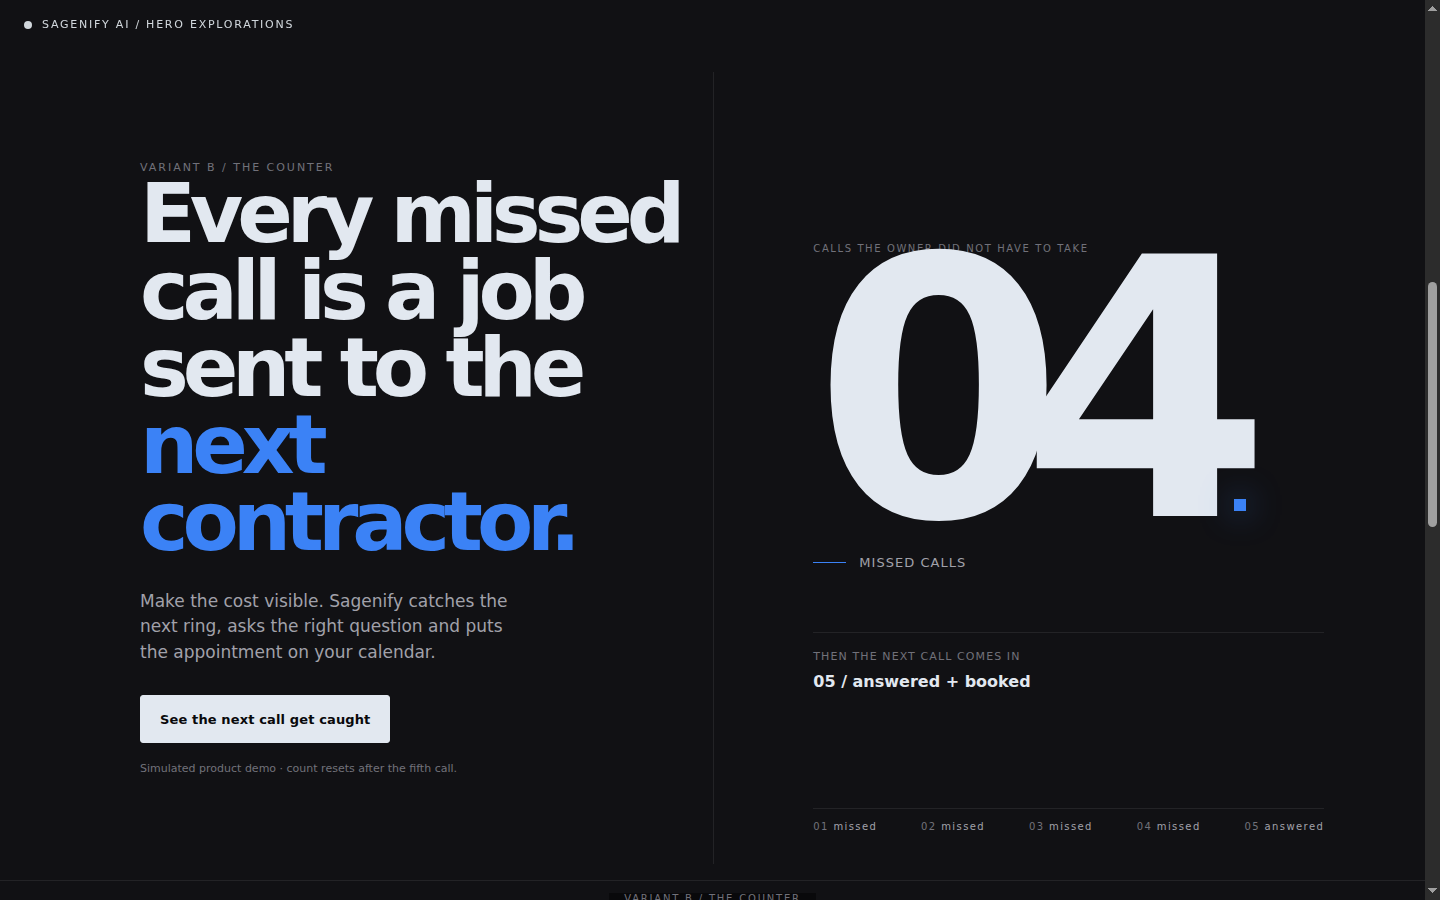
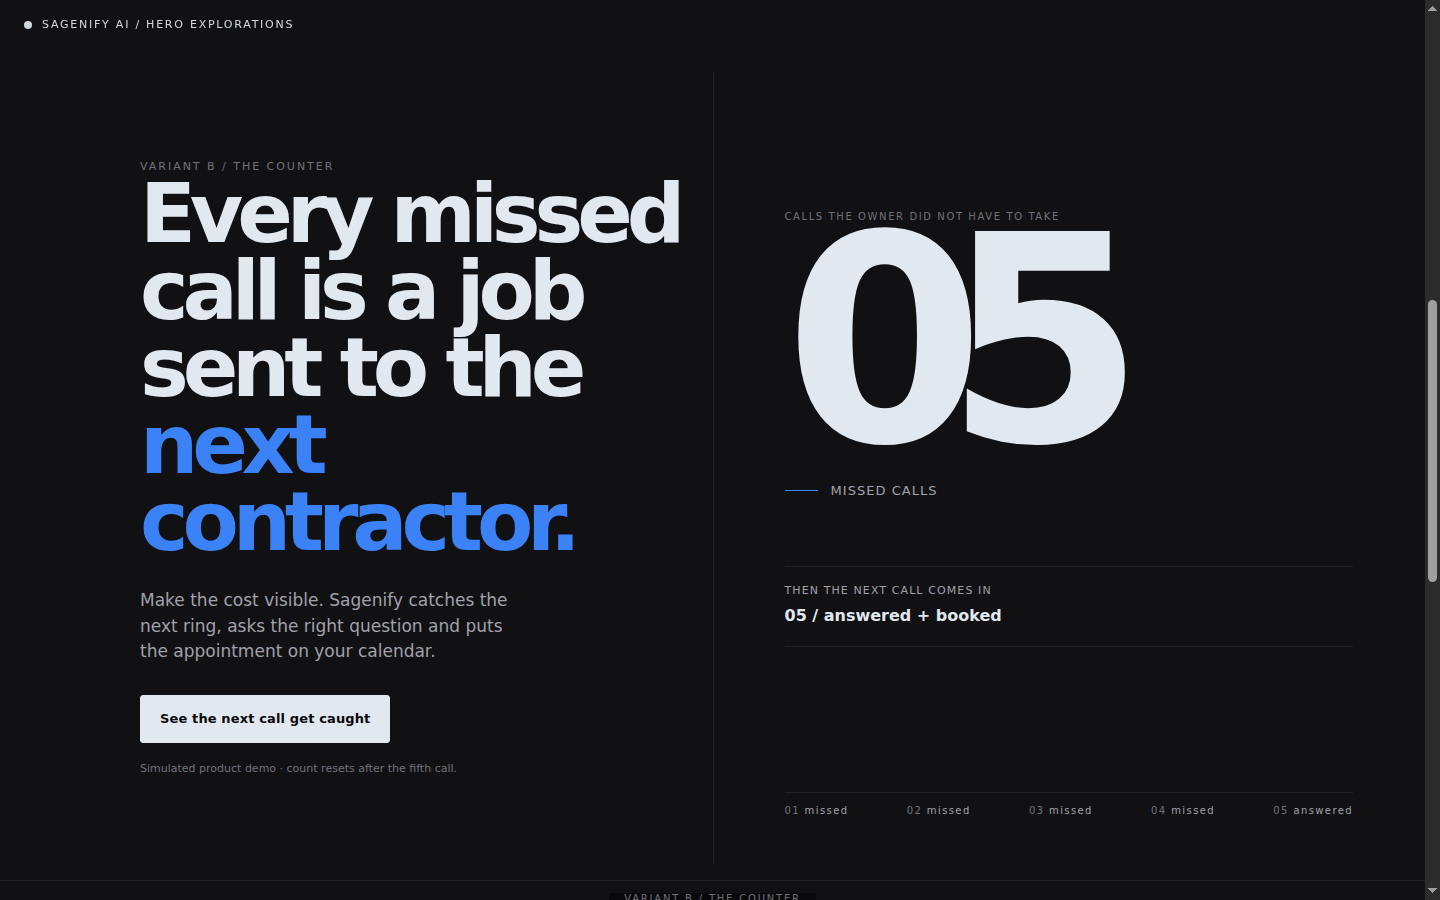
fix: polish v4 hero compositions

diff --git a/docs/design/hero-variants.html b/docs/design/hero-variants.html
@@ -47,51 +47,55 @@
       transition: background .2s ease, color .2s ease;
     }
     .primary-cta:hover { background: var(--v4-bg); color: var(--v4-text); }
-    .demo-note { margin: 18px 0 0; color: var(--v4-muted); font-size: 11px; line-height: 1.45; }
+    .demo-note { margin: 18px 0 0; color: var(--v4-text-secondary); font-size: 11px; line-height: 1.45; }
 
     /* Variant A — one call, one job. */
     .variant-a { background: var(--v4-bg); }
-    .a-grid { display: grid; grid-template-columns: minmax(280px, .83fr) minmax(500px, 1.17fr); gap: clamp(45px, 8vw, 120px); align-items: center; }
-    .a-copy h1 { max-width: 560px; }
-    .a-copy h1 em { color: var(--v4-purple); }
+    .a-grid { display: grid; grid-template-columns: minmax(0, .96fr) minmax(0, 1.04fr); gap: clamp(28px, 4vw, 52px); align-items: center; }
+    .a-copy h1 { max-width: none; font-size: clamp(44px, 4.6vw, 68px); }
+    .a-copy h1 em { display:block; color: var(--v4-purple); }
     .a-statement { display:flex; align-items:center; gap:10px; margin: 0 0 24px; color: var(--v4-text-secondary); font-size: 12px; }
     .a-statement i { width: 7px; height: 7px; border-radius: 50%; background: var(--v4-purple); box-shadow: 0 0 18px rgba(139,92,246,.65); }
-    .call-shell { min-height: 604px; position: relative; overflow: hidden; padding: 23px; border: 1px solid var(--v4-line-strong); background: var(--v4-surface); }
-    .call-shell::before { content:""; position:absolute; inset: 0; background: linear-gradient(90deg, transparent 0 49.8%, var(--v4-line) 50%, transparent 50.2%); opacity:.5; pointer-events:none; }
+    .call-shell { min-height: 574px; position: relative; overflow: hidden; padding: 23px; border: 1px solid var(--v4-line-strong); background: var(--v4-surface); }
+    .call-shell::before { content:""; position:absolute; inset: 0; background: linear-gradient(90deg, transparent 0 36%, var(--v4-line) 36.1%, transparent 36.2%); opacity:.5; pointer-events:none; }
     .call-top { position:relative; z-index:1; display:flex; justify-content:space-between; align-items:center; padding-bottom:17px; border-bottom: 1px solid var(--v4-line); color:var(--v4-muted); font-size:10px; letter-spacing:.14em; text-transform:uppercase; }
     .call-top strong { color:var(--v4-text-secondary); font-weight:600; }
     .live-dot { display:inline-block; width:6px; height:6px; margin-right:7px; border-radius:50%; background:var(--v4-purple); box-shadow:0 0 12px rgba(139,92,246,.9); }
-    .call-stage { position:relative; z-index:1; min-height: 535px; display:grid; grid-template-rows:auto 1fr auto; padding: 27px 4px 3px; }
+    .call-stage { position:relative; z-index:1; min-height: 505px; display:grid; grid-template-rows:auto 1fr auto; padding: 27px 4px 3px; }
     .call-meta { display:flex; justify-content:space-between; gap:15px; align-items:flex-start; }
-    .call-status { color:var(--v4-purple); font-size:10px; font-weight:700; letter-spacing:.16em; text-transform:uppercase; }
+    .call-status { display:grid; color:var(--v4-purple); font-size:10px; font-weight:700; letter-spacing:.16em; text-transform:uppercase; }
+    .call-status .ringing-copy, .call-status .answered-copy { grid-area:1 / 1; }
     .call-time { color:var(--v4-muted); font-size:11px; font-variant-numeric:tabular-nums; }
-    .call-body { display:grid; grid-template-columns: 1fr 1fr; gap: 28px; align-items:center; }
-    .caller { position:relative; }
+    .call-body { display:grid; grid-template-columns: minmax(0, .84fr) minmax(0, 1.16fr); gap: 28px; align-items:stretch; padding-top: 20px; }
+    .caller { position:relative; display:flex; flex-direction:column; justify-content:center; align-items:flex-start; padding-right: 18px; }
     .caller h2 { margin:0 0 8px; font-size: clamp(24px, 3vw, 42px); line-height: .98; letter-spacing:-.06em; }
-    .caller p { max-width: 210px; margin:0; color:var(--v4-muted); font-size:12px; line-height:1.45; }
-    .phone-ring { width: 114px; height: 114px; margin: 0 0 30px; position:relative; display:grid; place-items:center; border:1px solid rgba(139,92,246,.5); border-radius:50%; color:var(--v4-purple); }
+    .caller p { max-width: 210px; margin:0; color:var(--v4-text-secondary); font-size:12px; line-height:1.45; }
+    .caller-copies { display:grid; width:100%; }
+    .caller-copies > div { grid-area:1 / 1; }
+    .caller-rings { display:grid; margin: 0 0 30px; }
+    .caller-rings > div { grid-area:1 / 1; margin:0; }
+    .phone-ring { width: 114px; height: 114px; position:relative; display:grid; place-items:center; border:1px solid rgba(139,92,246,.5); border-radius:50%; color:var(--v4-purple); }
     .phone-ring::before, .phone-ring::after { content:""; position:absolute; inset:-13px; border:1px solid rgba(139,92,246,.25); border-radius:50%; animation: ring 2.2s ease-out infinite; }
     .phone-ring::after { animation-delay:1.1s; }
     .phone-icon { width:30px; height:30px; fill:none; stroke:currentColor; stroke-width:1.7; stroke-linecap:round; stroke-linejoin:round; }
     .answered-ring { display:none; width:114px; height:114px; margin: 0 0 30px; position:relative; align-items:center; justify-content:center; border:1px solid rgba(139,92,246,.7); border-radius:50%; color:var(--v4-purple); }
     .answered-ring::after { content:""; position:absolute; inset:13px; border:1px solid rgba(139,92,246,.35); border-radius:50%; }
     .answered-ring .phone-icon { position:relative; z-index:1; }
-    .caller > .ringing-copy, .caller > .answered-copy { position: absolute; left: 0; top: 174px; }
     .call-status .ringing-copy, .call-status .answered-copy { position: static; }
     .answered-copy { opacity:0; }
     .wave-panel { align-self:end; padding: 17px 0 0; border-top:1px solid var(--v4-line); }
-    .wave-label { display:flex; justify-content:space-between; margin-bottom:10px; color:var(--v4-muted); font-size:10px; letter-spacing:.12em; text-transform:uppercase; }
+    .wave-label { display:flex; justify-content:space-between; margin-bottom:14px; color:var(--v4-text-secondary); font-size:10px; letter-spacing:.12em; text-transform:uppercase; }
     .waveform { height: 52px; display:flex; align-items:center; gap:4px; }
     .waveform i { display:block; width:4px; height: 8px; border-radius:4px; background: var(--v4-purple); opacity:.2; }
     .waveform i:nth-child(2n) { height: 22px; } .waveform i:nth-child(3n) { height: 35px; } .waveform i:nth-child(5n) { height: 46px; }
     .transcript { min-height: 140px; padding: 15px 0 0; }
-    .transcript p { opacity:0; transform:translateY(8px); margin: 0 0 10px; color:var(--v4-text-secondary); font-size:12px; line-height:1.45; }
-    .transcript p b { display:inline-block; width: 53px; color:var(--v4-muted); font-size:9px; font-weight:500; letter-spacing:.12em; text-transform:uppercase; }
+    .transcript p { opacity:0; transform:translateY(8px); margin: 0 0 12px; color:var(--v4-text-secondary); font-size:12px; line-height:1.45; }
+    .transcript p b { display:block; width:auto; margin-bottom:4px; color:var(--v4-text-secondary); font-size:9px; font-weight:600; letter-spacing:.12em; text-transform:uppercase; }
     .job-ticket { opacity:0; transform:translateX(20px); margin-top: 12px; padding: 15px 16px; border-left: 2px solid var(--v4-purple); background: var(--v4-surface-raised); }
     .job-ticket .ticket-top { display:flex; justify-content:space-between; gap:15px; margin-bottom:9px; color:var(--v4-purple); font-size:10px; font-weight:700; letter-spacing:.13em; text-transform:uppercase; }
     .job-ticket strong { display:block; color:var(--v4-text); font-size:14px; font-weight:650; }
-    .job-ticket small { display:block; margin-top:4px; color:var(--v4-muted); font-size:11px; }
-    .a-next { margin-top: 22px; color:var(--v4-muted); font-size: 11px; }
+    .job-ticket small { display:block; margin-top:4px; color:var(--v4-text-secondary); font-size:11px; }
+    .a-next { margin-top: 22px; color:var(--v4-text-secondary); font-size: 11px; }
     .a-next b { color:var(--v4-text-secondary); font-weight:500; }
     @keyframes ring { 0% { opacity:0; transform:scale(.7); } 15% { opacity:1; } 70%,100% { opacity:0; transform:scale(1.18); } }
     @keyframes ring-hide { 0%, 21% { opacity:1; } 26%,100% { opacity:0; } }
@@ -106,9 +110,9 @@
     .call-shell:not(.is-paused) .answered-copy { animation: answer-in 12s linear infinite; }
     .call-shell:not(.is-paused) .answered-ring { display:flex; animation: answer-in 12s linear infinite; }
     .call-shell:not(.is-paused) .waveform i { animation: pulse 1.1s ease-in-out infinite alternate; }
-    .call-shell:not(.is-paused) .transcript p:nth-child(1) { animation: line-in-one 12s linear infinite; }
-    .call-shell:not(.is-paused) .transcript p:nth-child(2) { animation: line-in-two 12s linear infinite; }
-    .call-shell:not(.is-paused) .transcript p:nth-child(3) { animation: line-in-three 12s linear infinite; }
+    .call-shell:not(.is-paused) .transcript p:nth-of-type(1) { animation: line-in-one 12s linear infinite; }
+    .call-shell:not(.is-paused) .transcript p:nth-of-type(2) { animation: line-in-two 12s linear infinite; }
+    .call-shell:not(.is-paused) .transcript p:nth-of-type(3) { animation: line-in-three 12s linear infinite; }
     .call-shell:not(.is-paused) .job-ticket { animation: ticket-in 12s linear infinite; }
     @keyframes pulse { from { transform:scaleY(.4); opacity:.35; } to { transform:scaleY(1); opacity:1; } }
     .call-shell:not(.is-paused) .waveform i:nth-child(2) { animation-delay:.13s; } .call-shell:not(.is-paused) .waveform i:nth-child(3) { animation-delay:.22s; } .call-shell:not(.is-paused) .waveform i:nth-child(4) { animation-delay:.31s; } .call-shell:not(.is-paused) .waveform i:nth-child(5) { animation-delay:.38s; }
@@ -123,15 +127,14 @@
     .b-copy h1 { max-width: 610px; margin-bottom: 28px; }
     .b-copy h1 em { color:var(--v4-blue); }
     .b-copy .lede { max-width: 390px; }
-    .counter-stage { min-height:calc(100svh - 108px); position:relative; display:flex; flex-direction:column; justify-content:center; padding: 0 clamp(32px, 7vw, 120px); }
+    .counter-stage { min-height:calc(100svh - 108px); position:relative; display:flex; flex-direction:column; justify-content:center; padding: 0 clamp(32px, 5vw, 90px) 78px; }
     .counter-small { margin-bottom: 8px; color:var(--v4-muted); font-size:10px; letter-spacing:.16em; text-transform:uppercase; }
-    .counter-number { position:relative; width:max-content; color:var(--v4-text); font-size:clamp(160px, 25vw, 360px); line-height:.72; letter-spacing:-.12em; font-weight:650; font-variant-numeric:tabular-nums; }
-    .counter-number::after { content:""; position:absolute; right:-18px; bottom:10px; width:12px; height:12px; background:var(--v4-blue); box-shadow:0 0 32px rgba(59,130,246,.7); }
-    .counter-label { display:flex; align-items:center; gap:13px; margin-top: 34px; color:var(--v4-text-secondary); font-size:13px; letter-spacing:.08em; text-transform:uppercase; }
+    .counter-number { position:relative; width:max-content; max-width:100%; color:var(--v4-text); font-size:clamp(150px, 20vw, 300px); line-height:.78; letter-spacing:-.14em; font-weight:650; font-variant-numeric:tabular-nums; }
+    .counter-label { display:flex; align-items:center; gap:13px; margin-top: 28px; color:var(--v4-text-secondary); font-size:13px; letter-spacing:.08em; text-transform:uppercase; }
     .counter-label i { width:33px; border-top:1px solid var(--v4-blue); }
-    .catch-line { margin-top: 62px; padding-top: 16px; border-top:1px solid var(--v4-line); color:var(--v4-muted); font-size:11px; line-height:1.5; text-transform:uppercase; letter-spacing:.1em; }
+    .catch-line { margin-top: 68px; padding: 16px 0 18px; border-top:1px solid var(--v4-line); border-bottom:1px solid var(--v4-line); color:var(--v4-text-secondary); font-size:11px; line-height:1.5; text-transform:uppercase; letter-spacing:.1em; }
     .catch-line strong { display:block; margin-top:5px; color:var(--v4-text); font-size:16px; letter-spacing:0; text-transform:none; }
-    .number-rail { position:absolute; left:clamp(32px, 7vw, 120px); right:clamp(32px, 7vw, 120px); bottom:32px; display:flex; justify-content:space-between; border-top:1px solid var(--v4-line); padding-top:12px; color:var(--v4-muted); font-size:10px; letter-spacing:.14em; }
+    .number-rail { position:absolute; left:clamp(32px, 5vw, 90px); right:clamp(32px, 5vw, 90px); bottom:48px; display:flex; justify-content:space-between; border-top:1px solid var(--v4-line); padding-top:12px; color:var(--v4-muted); font-size:10px; letter-spacing:.14em; }
     .number-rail b { color:var(--v4-text-secondary); font-weight:500; }
     @keyframes count { 0%, 17% { opacity:1; } 18%, 20% { opacity:.1; } 21%, 42% { opacity:1; } 43%, 45% { opacity:.1; } 46%, 67% { opacity:1; } 68%, 70% { opacity:.1; } 71%, 100% { opacity:1; } }
     .counter-number { animation:count 8s steps(1,end) infinite; }
@@ -143,15 +146,15 @@
     .c-head h1 { max-width: 850px; margin-bottom:20px; font-size:clamp(44px, 5.3vw, 72px); }
     .c-head h1 em { color:var(--v4-purple); }
     .c-head .lede { max-width: 470px; margin-bottom: 22px; }
-    .c-split { min-height: calc(100svh - 306px); display:grid; grid-template-columns:1fr 1fr; border-top:1px solid var(--v4-line); border-bottom:1px solid var(--v4-line); }
-    .c-half { position:relative; min-height: 440px; padding: clamp(28px, 5vw, 70px); overflow:hidden; }
+    .c-split { height:430px; min-height:430px; display:grid; grid-template-columns:1fr 1fr; border-top:1px solid var(--v4-line); border-bottom:1px solid var(--v4-line); }
+    .c-half { position:relative; min-height: 0; padding: clamp(28px, 4vw, 54px); overflow:hidden; }
     .c-left { background: #09090B; border-right:1px solid var(--v4-line); }
     .c-right { background:var(--v4-surface-raised); }
     .c-half::after { content:""; position:absolute; left:0; right:0; top:48%; border-top:1px solid var(--v4-line); opacity:.8; }
     .c-label { position:relative; z-index:1; display:flex; justify-content:space-between; gap:14px; color:var(--v4-muted); font-size:10px; letter-spacing:.15em; text-transform:uppercase; }
     .c-label strong { color:var(--v4-text-secondary); font-weight:600; }
-    .phone-scene { position:absolute; z-index:1; inset: 24% 0 0; display:flex; flex-direction:column; align-items:center; justify-content:center; text-align:center; }
-    .scene-phone { width:100px; height:160px; position:relative; border:2px solid var(--v4-muted); border-radius:18px; color:var(--v4-muted); }
+    .phone-scene { position:absolute; z-index:1; inset: 14% 0 6%; display:flex; flex-direction:column; align-items:center; justify-content:center; text-align:center; }
+    .scene-phone { width:100px; height:160px; position:relative; border:2px dashed var(--v4-muted); border-radius:18px; color:var(--v4-muted); opacity:.72; }
     .scene-phone::before { content:""; position:absolute; top:10px; left:50%; width:26px; height:3px; transform:translateX(-50%); border-radius:4px; background:currentColor; }
     .scene-phone::after { content:""; position:absolute; bottom:10px; left:50%; width:25px; height:4px; transform:translateX(-50%); border-radius:4px; background:currentColor; }
     .scene-phone svg { position:absolute; width:33px; height:33px; left:50%; top:50%; transform:translate(-50%,-50%); fill:none; stroke:currentColor; stroke-width:1.5; stroke-linecap:round; stroke-linejoin:round; }
@@ -160,14 +163,19 @@
     .ring-lines::before { left:-16px; transform:rotate(-24deg); } .ring-lines::after { right:-16px; transform:rotate(24deg); }
     @keyframes shake { 0%,100% { transform:rotate(0); } 25% { transform:rotate(-2deg); } 75% { transform:rotate(2deg); } }
     .scene-title { margin:23px 0 7px; color:var(--v4-text); font-size:22px; letter-spacing:-.04em; }
-    .scene-copy { max-width:230px; margin:0; color:var(--v4-muted); font-size:12px; line-height:1.45; }
-    .c-right .scene-phone { border-color:var(--v4-purple); color:var(--v4-purple); box-shadow:0 0 0 14px rgba(139,92,246,.06), 0 0 44px rgba(139,92,246,.12); }
+    .scene-copy { max-width:230px; margin:0; color:var(--v4-text-secondary); font-size:12px; line-height:1.45; }
+    .c-right .scene-phone { border:3px solid var(--v4-purple); color:var(--v4-purple); opacity:1; background:rgba(139,92,246,.035); box-shadow:0 0 0 14px rgba(139,92,246,.06), 0 0 44px rgba(139,92,246,.12); }
     .c-right .ring-lines { display:none; }
+    .c-left .ring-lines { animation:none; opacity:.48; border-style:dashed; }
     .c-right .scene-title { color:var(--v4-text); }
     .booked-line { display:flex; align-items:center; gap:8px; margin-top:16px; color:var(--v4-purple); font-size:10px; font-weight:700; letter-spacing:.13em; text-transform:uppercase; }
     .booked-line i { width:7px; height:7px; border:1px solid var(--v4-purple); border-radius:50%; }
-    .c-side-note { position:absolute; z-index:2; right:clamp(28px, 5vw, 70px); bottom:24px; max-width:190px; color:var(--v4-muted); font-size:10px; line-height:1.45; text-align:right; }
+    .c-side-note { position:absolute; z-index:2; right:clamp(28px, 5vw, 70px); bottom:38px; max-width:190px; color:var(--v4-text-secondary); font-size:10px; line-height:1.45; text-align:right; }
 
+    @media (max-width: 1100px) and (min-width: 851px) {
+      .a-copy h1 { font-size: 42px; }
+      .a-copy h1 em { max-width: 340px; }
+    }
     @media (max-width: 850px) {
       .site-mark { top:14px; left:18px; font-size:9px; }
       .variant-inner, .c-head { width:calc(100% - 40px); }
@@ -178,6 +186,7 @@
       .a-grid { grid-template-columns:1fr; gap: 30px; align-items:start; }
       .a-copy { padding-top: 10px; }
       .a-copy h1 { font-size: clamp(42px, 11.8vw, 58px); }
+      .a-copy h1 em { display:inline; }
       .a-copy .lede { margin-bottom: 21px; font-size: 14px; line-height: 1.38; }
       .a-copy .a-next { display:none; }
       .a-statement { margin-bottom:16px; }
@@ -195,7 +204,8 @@
       .call-body { gap:17px; }
       .caller h2 { font-size:30px; }
       .caller > .ringing-copy, .caller > .answered-copy { top: 135px; }
-      .phone-ring, .answered-ring { width:92px; height:92px; margin-bottom:21px; }
+      .caller-rings { margin-bottom:21px; }
+      .phone-ring, .answered-ring { width:92px; height:92px; }
       .phone-icon { width:26px; height:26px; }
       .a-next { margin-top:13px; }
       .b-inner, .c-inner { padding-top:65px; padding-bottom:53px; }
@@ -237,11 +247,11 @@
       .transcript p { font-size:11px; }
       .transcript p b { width:45px; font-size:8px; }
       .b-copy { width:calc(100% - 32px); }
-      .b-copy h1 { font-size:46px; }
+      .b-copy h1 { font-size:42px; }
       .counter-stage { padding-left:16px; padding-right:16px; }
       .number-rail { left:16px; right:16px; font-size:9px; }
       .c-head { width:calc(100% - 32px); }
-      .c-head h1 { font-size:46px; }
+      .c-head h1 { font-size:38px; }
       .c-half { min-height:285px; }
     }
     @media (prefers-reduced-motion: reduce) {
@@ -280,12 +290,10 @@
             <div class="call-meta"><span class="call-status"><span class="ringing-copy">Incoming call</span><span class="answered-copy">Answered by Sagenify</span></span><span class="call-time">09:42 AM · 02:18</span></div>
             <div class="call-body">
               <div class="caller">
-                <div class="phone-ring">
+                <div class="caller-rings"><div class="phone-ring">
                   <svg class="phone-icon" viewBox="0 0 24 24" aria-hidden="true"><path d="M6.6 3.8 9 3l2.1 4.9-2.3 1.5a13.2 13.2 0 0 0 5.8 5.8l1.5-2.3L21 15l-.8 2.4a2.2 2.2 0 0 1-2.5 1.4C10 17.3 6.7 14 5.2 6.3a2.2 2.2 0 0 1 1.4-2.5Z"/></svg>
-                </div>
-                <div class="answered-ring"><svg class="phone-icon" viewBox="0 0 24 24" aria-hidden="true"><path d="M6.6 3.8 9 3l2.1 4.9-2.3 1.5a13.2 13.2 0 0 0 5.8 5.8l1.5-2.3L21 15l-.8 2.4a2.2 2.2 0 0 1-2.5 1.4C10 17.3 6.7 14 5.2 6.3a2.2 2.2 0 0 1 1.4-2.5Z"/></svg></div>
-                <div class="ringing-copy"><h2>Maple Street<br>HVAC</h2><p>(555) 014-0149 · New customer</p></div>
-                <div class="answered-copy"><h2>Maple Street<br>HVAC</h2><p>Call connected · lead captured</p></div>
+                </div><div class="answered-ring"><svg class="phone-icon" viewBox="0 0 24 24" aria-hidden="true"><path d="M6.6 3.8 9 3l2.1 4.9-2.3 1.5a13.2 13.2 0 0 0 5.8 5.8l1.5-2.3L21 15l-.8 2.4a2.2 2.2 0 0 1-2.5 1.4c-7.7-1.5-11-4.8-12.5-12.5a2.2 2.2 0 0 1 1.4-2.5Z"/></svg></div></div>
+                <div class="caller-copies"><div class="ringing-copy"><h2>Maple Street<br>HVAC</h2><p>(555) 014-0149 · New customer</p></div><div class="answered-copy"><h2>Maple Street<br>HVAC</h2><p>Call connected · lead captured</p></div></div>
               </div>
               <div class="transcript" aria-live="polite">
                 <div class="wave-panel"><div class="wave-label"><span>AI receptionist</span><span>Listening</span></div><div class="waveform" aria-hidden="true"><i></i><i></i><i></i><i></i><i></i><i></i><i></i><i></i><i></i><i></i><i></i><i></i><i></i><i></i><i></i><i></i><i></i><i></i><i></i><i></i></div></div>
